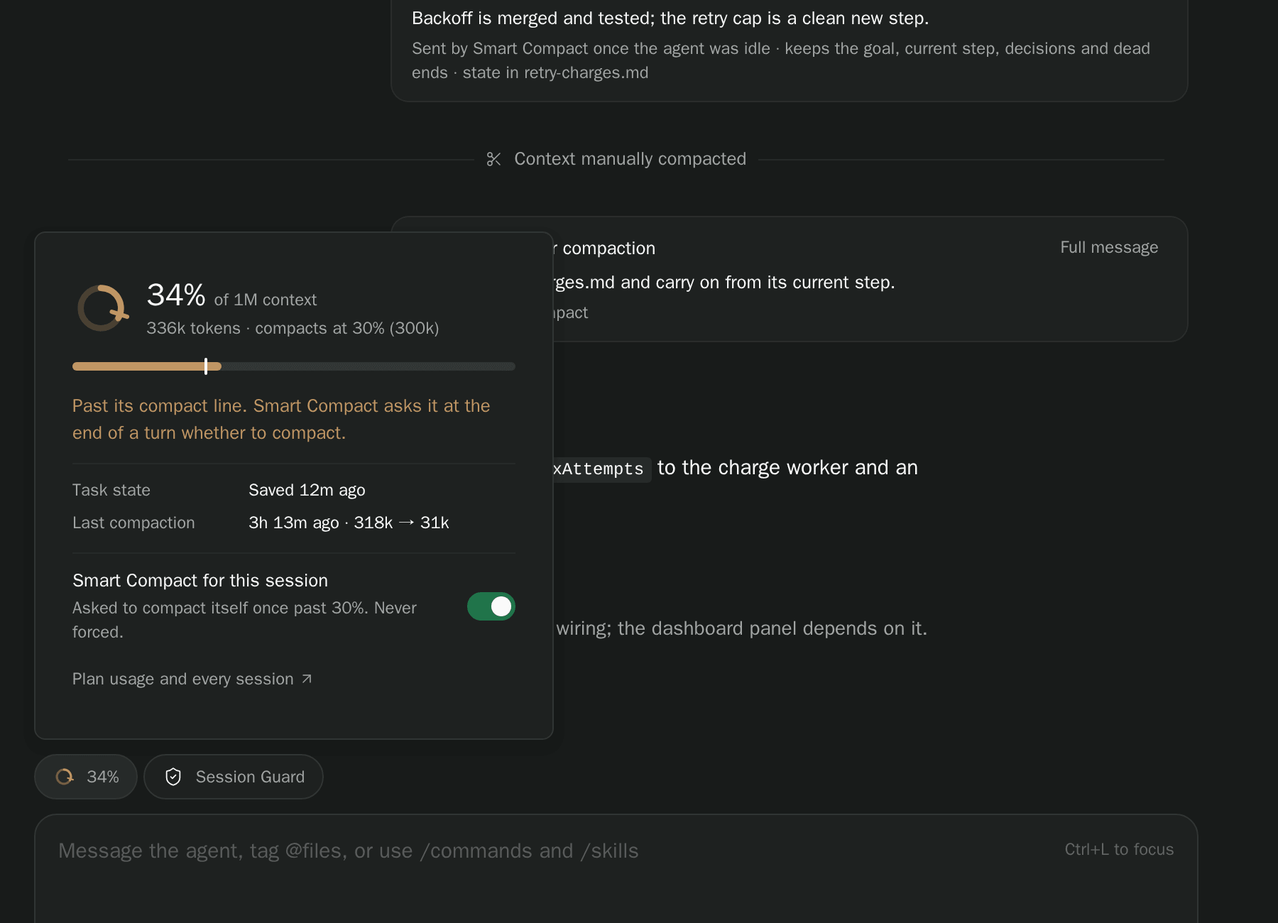
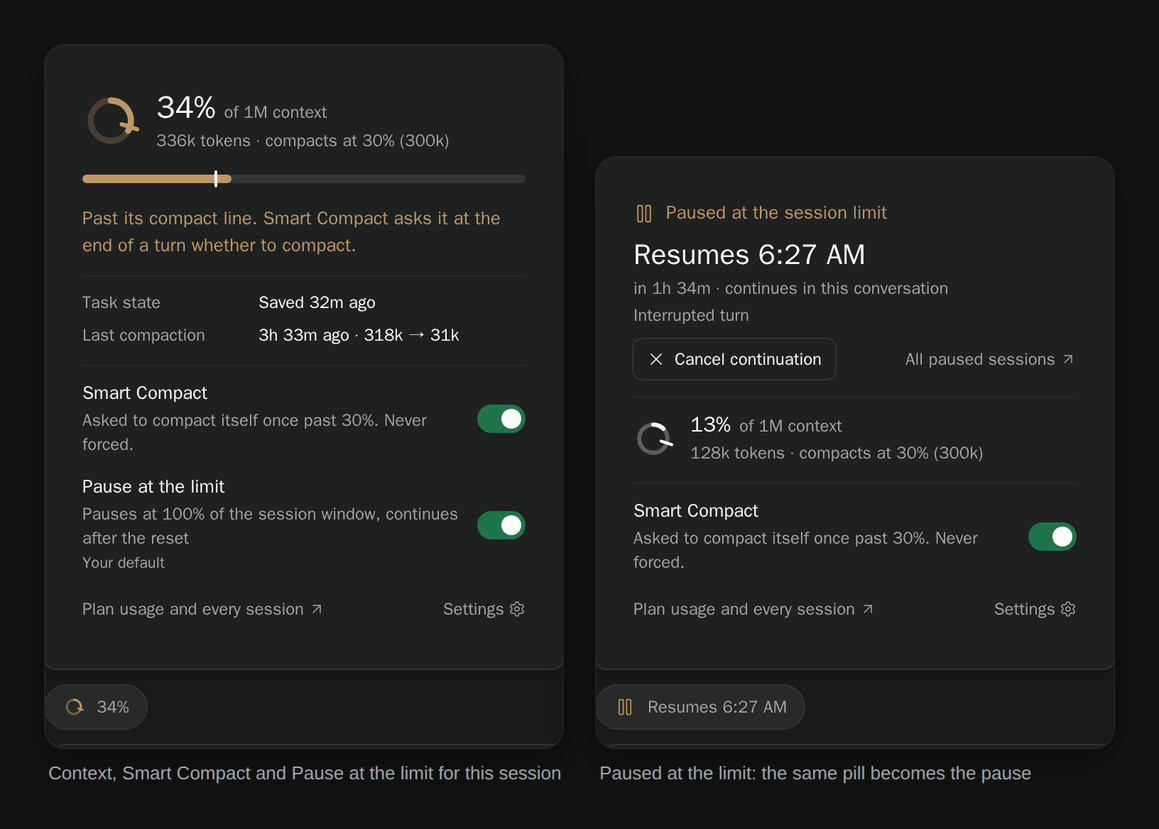
docs: README, guide, media and design notes for one Smart Session
Protection reads as part of the plugin: Pause at the limit in the README
with one settings table, the guide describes the one pill and the overview's
paused list, new media (both pill states, the pause in chat and on the
overview, phone, the settings screen), the old Display screenshots go.

diff --git a/docs/session-guard.md b/docs/session-guard.md
@@ -1,16 +1,16 @@
-# Session Guard
+# Pause at the limit
 
-Session Guard pauses agents at their provider's session limit and continues the same conversations after the window resets, even while the Paseo app is closed. It began as the standalone [paseo-session-guard](https://github.com/tomgrin10/paseo-session-guard) plugin and now ships inside Smart Session. See the [README](../README.md) for installation.
+Pause at the limit (formerly the Session Guard plugin, and still called Session Guard in the code and data paths) pauses agents at their provider's session limit and continues the same conversations after the window resets, even while the Paseo app is closed. It began as the standalone [paseo-session-guard](https://github.com/tomgrin10/paseo-session-guard) plugin and now ships inside Smart Session. See the [README](../README.md) for installation.
 
 ## Turning it on
 
-Session Guard is **off by default**. Turn it on with the **Session Guard** switch on the Smart Session overview, or in **Settings → Plugins → Smart Session → Session Guard**. Off, it holds no lock, writes nothing and draws no pill.
+It is **off by default**. Turn it on with the **Pause at the limit** switch on the Smart Session overview, or in **Settings → Plugins → Smart Session**. Off, it holds no lock, writes nothing and adds nothing to the pill.
 
 ### Moving from the standalone plugin
 
 Smart Session never runs Session Guard while the standalone plugin is configured **and enabled** on the host, even when it could. Released versions of the standalone plugin resume every suspended session in the shared state when they are disabled or removed, whichever plugin paused it, so two enabled copies cannot share a host safely. Both keep their state in `$PASEO_HOME/plugin-data/session-guard/` and take the same `governor.lock` there, so a disabled copy that is still shutting down is waited out too.
 
-- While the standalone plugin is enabled, Smart Session's Session Guard pauses nothing. Its settings, the paused-sessions list and the overview say so, its pill stays hidden, and pauses in the list are marked as the standalone plugin's, with no controls.
+- While the standalone plugin is enabled, Smart Session's Session Guard pauses nothing. Settings, the pill's popover and the overview say so in one line, and pauses in the overview's list are marked read-only, with no controls.
 - **Disable or uninstall Session Guard** (**Settings → Plugins**, `paseo plugin disable paseo-session-guard` or `paseo plugin remove paseo-session-guard`). Smart Session takes over on its next check, about 15 seconds later. Per-session choices and waiting pauses carry over, because they are the same file. The standalone plugin releases native workers when it stops; if the quota is still full, Smart Session normally pauses that work again on its first check.
 - Smart Session's settings start from defaults: the standalone plugin's settings belong to that installation and are deleted with it. Re-apply any custom threshold, timing or continuation message.
 - If the standalone plugin is enabled again while Smart Session is protecting the host, Smart Session releases the sessions it suspended, keeps their confirmed waits, gives up the lock and stops. The standalone plugin does not retry its lock, so reload it to let it take over, or disable it again to hand back to Smart Session. Between enabling it and Smart Session's next check (up to the check interval) both are loaded; avoid disabling it again within that window.
@@ -19,21 +19,17 @@ Turning Session Guard off releases suspended workers immediately. A message cont
 
 ## Use
 
-Every live session with a workspace gets a **Session Guard** composer pill while the feature is on. Open its menu to:
+There is no separate pill. Each session's Smart Session pill (the context ring) carries its protection, and says nothing about it while the session is simply protected. Press it for the **Pause at the limit** switch for that session: it shows whether the session follows your default or was changed, with **Use default** to go back. Turning the switch to match the default removes the override.
 
-- **Turn off for this session** / **Protect this session**: persist an explicit session override.
-- **Use host default**: remove that override.
-- **Cancel automatic continuation**: leave an interrupted turn for you to continue manually. For suspended native workers, **Release and turn off for this session** resumes them immediately and opts the session out, preventing the next check from pausing it again.
-- **Session Guard settings**: configure the host policy and see paused sessions.
-- **All paused sessions**: open the host-wide overview.
+When a session is paused, its pill becomes the pause: an amber pause glyph and the moment it resumes (**Resumes 5:58 PM**, **Paused · reset due**, or **Check session** in red when it needs a look). It stays on the composer while paused even if the pill is hidden in settings. Its popover leads with what happened and when it continues, with **Cancel continuation** (for an interrupted turn) or **Release and turn off** (for frozen native workers, which also opts the session out so the next check doesn't pause it again), and a link to all paused sessions.
 
-The **Paused sessions** screen gathers every Session Guard pause on the selected host, each led by the time its window resets and a countdown, with the session title, provider and whether native subagents are frozen or the turn was interrupted. Uncertain stops are grouped under **Needs attention**. Open a session or manage its pause directly; search appears when the list is busy. Open it from the Smart Session overview (the **2 paused** line under the headline, or the Session Guard card), the pill's menu, Command Center, settings, or a pause card. While anything is paused, the Smart Session sidebar row shows the count. A waiting session's composer pill begins **Paused**. Its workspace also gets an amber **Paused** label in the left sidebar. The label persists through restarts and stays until the last paused session in that workspace is released. Turn it off with **Label paused workspaces** in settings; other workspace labels stay intact.
+The Smart Session overview leads with paused sessions while there are any ("2 sessions resume at 5:58 PM"), and lists them right under the headline, each with the session title, provider, whether native subagents are frozen or the turn was interrupted, **Open session** and the release action. Uncertain stops sort first. Search appears when the list is busy. ⌘K **Smart Session: paused sessions**, a pause card and the settings screen all open the overview at this list. Sessions changed from your default are listed under the **Pause at the limit** row, each with **Use default**. While anything is paused, the Smart Session sidebar row shows the count. Paused workspaces get an amber **Paused** label in the left sidebar until the last paused session in them is released. Turn it off with **Label paused workspaces** in settings; other workspace labels stay intact.
 
-Confirmed pauses write a **Paused for session limit** timeline entry: the reset time with a live countdown, the provider and how much of the window was used, and whether native subagents are covered. When the pause ends, the entry folds into one line ("Paused at 7:57 PM · resumed 9:41 PM"), so the chat keeps the history without a stale card. Resume, release, and uncertain-stop entries make the recovery history clear. Existing confirmed waits are backfilled when upgrading. Timeline events use the host-owned plugin IPC identity, stay outside model messages, and never start a new turn. Delivery is journaled and retried; a lost acknowledgement is checked against timeline IDs before another append. Timeline delivery failures do not undo pauses and are shown in the overview/settings.
+Confirmed pauses write a **Paused at the session limit** timeline entry: the reset time with a live countdown, the provider and how much of the window was used, and whether native subagents are covered. When the pause ends, the entry folds into one line ("Paused at 7:57 PM · resumed 9:41 PM"), so the chat keeps the history without a stale card. Resume, release, and uncertain-stop entries make the recovery history clear. Existing confirmed waits are backfilled when upgrading. Timeline events use the host-owned plugin IPC identity, stay outside model messages, and never start a new turn. Delivery is journaled and retried; a lost acknowledgement is checked against timeline IDs before another append. Timeline delivery failures do not undo pauses and are shown in the overview/settings.
 
 Choose **Dismiss pause** on an active pause or restart-recovery timeline item to release it **without sending a message**. This cancels its scheduled continuation, turns protection off for that session, clears its active pause from the overview and workspace label when applicable, and collapses the original card to a short acknowledgement. Existing suspended workers are released and may continue their current work. The dismissal is saved before release so it survives restarts; partial release retries without sending. Historical cards cannot dismiss a newer pause. **Resume now** remains available when you want Guard to continue interrupted work immediately.
 
-Settings are also available in **Settings → Plugins → Smart Session → Session Guard** and Command Center. The default can be changed from **Protect all sessions** to **Opt in per session**. Explicit overrides survive that change. Native subagents inherit their parent session's protection and opt-out. Paseo-created child sessions have their own protection and pill, like every other session.
+Settings live in the **Pause at the limit** and **Limit timing** sections of **Settings → Plugins → Smart Session** (⌘K **Smart Session: settings**). **Sessions** can be changed from **Every session** to **Only ones I turn on**. Explicit overrides survive that change. Native subagents inherit their parent session's protection and opt-out. Paseo-created child sessions have their own protection and pill, like every other session.
 
 | Setting | Default | Range / meaning |
 |---|---|---|
@@ -57,9 +53,9 @@ Native coverage currently requires **Linux**, access to `/proc`, and a uniquely 
 
 Suspension does not undo an API request or external action already sent. Network calls can time out while paused, and tools can retain locks. Resumption preserves local process state, but a provider's ordinary network/tool error still requires normal recovery; Session Guard automatically recovers only matching quota failures. Outstanding permission prompts remain for the person to answer.
 
-The pill's icon carries its state: a shield when protected, a muted crossed-out shield when off, an amber pause while paused, and a red warning when the session needs a look. A confirmed pause timeline entry offers **Resume now** while that exact pause is still waiting. This resumes owned native workers in place, or sends one manual continuation for an interrupted turn, and opts that session out so a still-full quota cannot immediately pause it again. Restore protection from the pill when ready. Resuming does not restore provider capacity: requests can still be rejected before reset. Historical entries cannot resume a newer pause, and unconfirmed message delivery is left for inspection without a blind retry.
+The pill's icon carries the pause: the context ring normally, an amber pause while paused, and a red warning when the session needs a look. A confirmed pause timeline entry offers **Resume now** while that exact pause is still waiting. This resumes owned native workers in place, or sends one manual continuation for an interrupted turn, and opts that session out so a still-full quota cannot immediately pause it again. Restore protection from the pill when ready. Resuming does not restore provider capacity: requests can still be rejected before reset. Historical entries cannot resume a newer pause, and unconfirmed message delivery is left for inspection without a blind retry.
 
-A disposable, empty session labelled `session_guard_demo=true` can exercise the real native pause/release path through the `smart-session.guard.demo-pause` RPC (`node probe.mjs rpc smart-session.guard.demo-pause '{"agentId":"…"}'`). It must have no user messages, active turn, or pending permissions. Its timeline explicitly says **Session Guard demo paused**, makes no quota claim, and waits for your action even when capacity resets. The demo never sends a task or changes provider quota reports.
+A disposable, empty session labelled `session_guard_demo=true` can exercise the real native pause/release path through the `smart-session.guard.demo-pause` RPC (`node probe.mjs rpc smart-session.guard.demo-pause '{"agentId":"…"}'`). It must have no user messages, active turn, or pending permissions. Its timeline explicitly says **Test pause**, makes no quota claim, and waits for your action even when capacity resets. The demo never sends a task or changes provider quota reports.
 
 ## Timing and persistence
 

diff --git a/README.md b/README.md
@@ -5,7 +5,7 @@
 [![Paseo](https://img.shields.io/badge/Paseo-%E2%89%A5%200.14.0-8A63D2?style=for-the-badge)](https://paseo.sh)
 [![License](https://img.shields.io/github/license/tomgrin10/paseo-smart-session?style=for-the-badge&color=2563eb)](LICENSE)
 
-Know when your plan runs out, and let agents manage their own long-running work. Smart Session records your Claude plan usage and turns it into a forecast ("Session runs out around 5:40 PM"), shows how full each session's context is, lets an agent save its task state and compact itself at a safe point, and with Session Guard pauses work at the session limit and continues it after the reset.
+Know when your plan runs out, and let agents manage their own long-running work. Smart Session records your Claude plan usage and turns it into a forecast ("Session runs out around 5:40 PM"), shows how full each session's context is, lets an agent save its task state and compact itself at a safe point, and pauses work at the session limit to continue it after the reset.
 
 <picture>
   <source media="(prefers-color-scheme: light)" srcset="docs/media/smart-session-hero-light.png">
@@ -24,18 +24,18 @@ On first load it registers its Claude Code hooks, touching only entries that poi
 
 ## Use
 
-**Smart Session** in the sidebar opens the overview. Its headline says when the session window runs out at the current pace, or that it lasts until the reset.
+**Smart Session** in the sidebar opens the overview. Its headline says when the session window runs out at the current pace, or that it lasts until the reset. While sessions are paused at the limit it leads with them instead ("2 sessions resume at 5:58 PM"), and lists them first with their actions.
 
 - **Plan limits.** Each window (the 5-hour session, the week, per-model weekly caps) shows how much is used, when it resets, and where it lands at the current pace: a faint extension of the meter, and a tick where an even pace would be. The session window adds a chart of its recorded usage and the projection to the reset, plus every session window of the last 14 days, so you can see how often you hit the limit.
 - **Session context.** Every open session with its share of the context window, the line where Smart Compact asks it to compact, how fast it is filling, and whether it is enrolled. Press a row to open the session.
-- **Smart Compact and Session Guard.** One switch each, what they will do, and links to their settings.
+- **Smart Compact and Pause at the limit.** One switch each, what they will do next, and the sessions you changed from your default.
 - **Tokens, last 30 days.** Billable tokens, the cache hit rate and the subagent share, per day, by hour of the week, by workspace and by model, reconstructed from Claude Code's transcripts.
 
-The pill above each message box is a ring of that session's context, with a tick at its compact line. Press it to see the detail, when it last saved its task state and compacted, and to enrol the session or take it out.
+Each session has one pill above its message box: a ring of its context, with a tick at its compact line. Press it to see the detail, when it last saved its task state and compacted, and to switch Smart Compact and Pause at the limit for that session. When the session is paused at the limit the same pill turns amber and says when it resumes, and it stays up even if you hide the pill.
 
 ![Pressing the context ring above the message box, then following it to the Smart Session screen and sweeping the window chart: recorded usage up to now, the projection at this pace, and the stretch after it runs out](docs/media/smart-session-flow.gif)
 
-![A session's context popover: 34% of a 1M context, 336k tokens, compacts at 30%, past its compact line; task state saved 10m ago; last compaction 3h ago, 318k to 31k; the Smart Compact switch for this session](docs/media/smart-session-pill.png)
+![Two popovers of the one pill. Left: 34% of a 1M context, past its compact line, task state and last compaction, then the Smart Compact and Pause at the limit switches for this session. Right: the same pill while paused, reading Resumes 6:27 AM, with Cancel continuation and a link to all paused sessions](docs/media/smart-session-pill.png)
 
 Agents get these tools:
 
@@ -45,7 +45,7 @@ Agents get these tools:
 | `checkpoint` | Save durable task state for this session |
 | `request_compaction` | Queue `/compact`, and choose whether and how to continue afterwards |
 | `defer_compaction` | Put off a compaction and record why |
-| `budget_status` | Plan usage, burn rate and reset times, and whether Session Guard will pause this session |
+| `budget_status` | Plan usage, burn rate and reset times, and whether this session pauses at the limit |
 
 The usual flow is `context_status → checkpoint → request_compaction`, then stop or re-read the state and continue. Saved state holds the goal, current step, decisions made and approaches that failed, so a resumed agent neither redoes work nor asks how to continue. In the chat each call is one line ("Saved task state · Cap retries at five", "Asked to compact · …"), and the messages Smart Session sends show as small cards with the full text one press away.
 
@@ -59,32 +59,43 @@ After compaction, the agent chooses to stop (`continue_after_compaction: false`)
 
 The forecast uses the last half hour for the session window and the window's own average for a week, so a burst of work doesn't read as "the week runs out tonight".
 
-**Settings → Plugins → Smart Session → Smart Compact:**
+## Pause at the limit
 
-| Setting | Default | |
-| --- | --- | --- |
-| Smart Compact | On | Context notices and agent-requested compaction |
-| Enrol sessions automatically | On | Enrol a session once it writes task state |
-| Context pill on every session | On | The ring above each message box |
-| Windows of 400k or more | 30% | Where large windows are asked to compact |
-| Smaller windows | 85% | Where smaller windows are asked to compact |
-| Register the hooks | On | Keep the context and compaction hooks installed in Claude Code |
+When the provider's session window is spent, Smart Session pauses running sessions instead of letting them fail, and continues the same conversations once the window resets, even with the app closed. It is **off by default**: turn it on from the overview or in settings. It was the standalone [Session Guard](https://github.com/tomgrin10/paseo-session-guard) plugin, and its per-session choices and waiting pauses carry over.
 
-## Session Guard
+On Linux, Claude and Codex sessions pause in place together with their native subagents; elsewhere the turn is interrupted and one continuation is sent after the reset. A paused session's pill, its chat and its workspace say so: the chat gets a card with the time it resumes, **Resume now** and **Dismiss pause**, which folds into one line once the pause ends. For Claude, a reset is confirmed from whichever is fresher, Paseo's cached usage or Smart Session's own recorder.
 
-Session Guard pauses agents at the provider's session limit and continues the same conversations after the reset, even with the app closed. It is the [Session Guard](https://github.com/tomgrin10/paseo-session-guard) plugin folded into Smart Session, and it is **off by default**: turn it on from the overview or **Settings → Plugins → Smart Session → Session Guard**.
+![A pause card in the chat with the time it resumes, Resume now and Dismiss pause, and the Smart Session screen leading with 2 sessions resume at 6:27 AM above the list of paused sessions](docs/media/smart-session-guard.png)
 
-On Linux, Claude and Codex sessions pause in place together with their native subagents; elsewhere the turn is interrupted and one continuation is sent after the reset. Each paused session gets a card in its chat with the reset time and a countdown, **Resume now** and **Dismiss pause**; once the pause ends the card folds into one line. **Paused sessions** lists every pause by its reset time, and the session's pill and its workspace read **Paused**. For Claude, a reset is confirmed from whichever is fresher, Paseo's cached usage or Smart Session's own recorder.
+If the standalone Session Guard plugin is still enabled, it keeps doing the pausing and Smart Session says so in one line, so a session is never paused twice. Disable or uninstall it to hand over. See the [guide](docs/session-guard.md) for timing and limits.
 
-![Session Guard: a pause card in the chat with the reset time, Resume now and Dismiss pause, and the Paused sessions screen listing sessions waiting for the reset](docs/media/smart-session-guard.png)
+On a phone, the pill opens as a sheet and every screen fits one column.
 
-While the standalone plugin is enabled, Smart Session leaves session protection to it, so a session is never paused twice. Disable or uninstall Session Guard to hand over; per-session choices and waiting pauses in `$PASEO_HOME/plugin-data/session-guard/` carry over. See the [Session Guard guide](docs/session-guard.md) for settings and limits.
+![Smart Session at phone width: the overview leading with paused sessions, the pill's sheet while paused, and the settings screen](docs/media/smart-session-mobile.png)
 
-On a phone, the pill popovers open as sheets and every screen fits one column.
+## Settings
 
-![Smart Session at phone width: the overview, the context popover as a sheet, and Paused sessions](docs/media/smart-session-mobile.png)
+Everything is on one screen, **Settings → Plugins → Smart Session**, in the order a session meets it. ⌘K **Smart Session: settings** opens it.
 
-**Settings → Plugins → Smart Session → Display** hides the sidebar row or the composer pills; neither turns a feature off.
+| Section | Setting | Default | |
+| --- | --- | --- | --- |
+| Smart Compact | Smart Compact | On | Context notices and agent-requested compaction |
+| | Enrol sessions automatically | On | Enrol a session once it writes task state |
+| When to ask | Windows of 400k or more | 30% | Where large windows are asked to compact |
+| | Smaller windows | 85% | Where smaller windows are asked to compact |
+| Pause at the limit | Pause at the limit | Off | Pause sessions at the session limit |
+| | Sessions | Every session | Or only the ones you turn on from their pill |
+| | Continue after the reset | On | Off, you continue each one by hand |
+| | Include native subagents | On | Freeze nested workers too (Linux) |
+| | Label paused workspaces | On | An amber Paused label in the sidebar |
+| Display | Sidebar row | On | |
+| | Pill on every session | On | A paused session keeps its pill either way |
+| Claude Code | Register the hooks | On | Keep the context and compaction hooks installed |
+| Limit timing | Pause at, check interval, wait after reset, spacing, continuation message, providers, windows | 100%, 15s, 30s, 5s | Behind **Edit**; each field is checked on its own |
+
+Hiding the row or the pill never turns a feature off.
+
+![The Smart Session settings screen: Smart Compact, When to ask, Pause at the limit, Display, Claude Code and Limit timing](docs/media/smart-session-settings.png)
 
 ## Data and access
 

diff --git a/DESIGN.md b/DESIGN.md
@@ -1,6 +1,6 @@
 ---
 name: Smart Session (Paseo native surface)
-description: Plan usage, session context and Session Guard pauses read as moments, drawn in Paseo's own theme.
+description: Plan usage, session context and pauses at the limit read as moments, drawn in Paseo's own theme.
 typography:
   headline:
     fontSize: "22px"
@@ -150,7 +150,7 @@ The palette is the host's. Smart Session owns no hex values, so the frontmatter 
 - **Pressed** (`surface2`): pressed fill, the switch's off track, skeletons.
 - **Hairline** (`border`): row dividers, chart top and baseline. At 60% it draws the chart midline, at 50% day ticks, at 55–80% empty cells and zero bars.
 - **Ink** (`foreground`): text, figures, the "now" rule, the compact tick on a meter. At 82% it is the used fill and the current bar, at 42% past bars, at 16% the projection, at 13% projected bars, and at 10% the meter track.
-- **Muted Ink** (`foregroundMuted`): meta, axes, the even-pace tick, the Session Guard threshold dash, idle icons, a not-enrolled ring.
+- **Muted Ink** (`foregroundMuted`): meta, axes, the even-pace tick, the pause-at-the-limit threshold dash, idle icons, a not-enrolled ring.
 
 ### Status
 - **Amber** (`statusWarning`): a forecast says a limit will bite before the reset, a session is past its compact line, or a session is paused and waiting. On the chart it fills the "nothing left" bars at 42%.
@@ -172,7 +172,7 @@ The palette is the host's. Smart Session owns no hex values, so the frontmatter 
 **Character:** Paseo's own voice at Paseo's sizes. Weight carries the hierarchy, and there is no display face.
 
 ### Hierarchy
-- **Headline** (600, 22/29; 19/25 compact): the status title on the overview and Paused sessions screens ("Session runs out around 4:58 PM"). It is followed by a 13/19 muted meta sentence.
+- **Headline** (600, 22/29; 19/25 compact): the status title on the overview ("Session runs out around 4:58 PM", or "2 sessions resume at 6:27 AM" while anything is paused here). It is followed by a 13/19 muted meta sentence.
 - **Lead figure** (600, 22/28): the context percentage in the popover. **Moment** (600, 20/26; 18/24 compact, tabular) is the resume clock on a pause card. **Row figure** (600, 17/22) is a plan window's percentage. Context rows use 15/20 tabular.
 - **Title** (600, 15/21): a paused-session row's name, and a pause row's own time.
 - **Body** (13/19): sentences and card text. **Label** (600, 13/18): row names and chat-card titles.
@@ -185,7 +185,7 @@ The palette is the host's. Smart Session owns no hex values, so the frontmatter 
 
 ## Layout
 
-The overview and Paused sessions are host screens. Content is centred at 860px (overview) or 760px (Paused sessions), with 32px padding (16px compact) and 48px at the bottom. Blocks are 26px apart (20px compact) on the overview and 22px (18px compact) on Paused sessions. A section is a group head 8px above one card. The first viewport is the headline with its icon and gear, then Plan limits (session row with meter, chart and earlier windows, then week rows and the meter key), then Session context rows, then the Smart Compact and Session Guard feature rows. Tokens (last 30 days) follows.
+The overview is a host screen, centred at 860px, with 32px padding (16px compact) and 48px at the bottom. Blocks are 26px apart (20px compact). A section is a group head 8px above one card. The first viewport is the headline with its icon and gear; while anything is paused, the Paused sessions section comes next (and ⌘K "paused sessions" opens the overview there), then Plan limits (session row with meter, chart and earlier windows, then week rows and the meter key), then Session context rows, then the Smart Compact and Pause at the limit feature rows (sessions changed from the default listed under the latter). Tokens (last 30 days) follows. Settings are one host settings screen in the order a session meets them: Smart Compact, When to ask, Pause at the limit, Display, Claude Code, Limit timing (folded behind Edit).
 
 Rows pad 12×14 with 6px internal gaps. Under a row's icon or status mark, secondary lines indent 22–25px to the text edge. In compact layouts, feature-row links drop to their own indented line, ranked totals stack, the window chart drops to 40 columns (from 60) and 60px tall (from 76), and controls grow to 44px. The popover is 340px (full-width sheet on phones), with 14px padding (16px compact) and 12px gaps, and hairlines between its parts. Chat cards sit right-aligned up to 560px wide, full width when compact.
 
@@ -229,19 +229,19 @@ Corners are soft and few. Cards are 10px, chat and pause cards 12px. Controls ar
 
 ### Navigation
 - **Sidebar row:** Paseo's sidebar header item, named Smart Session. It trails the session window's use in 12px tabular muted text, or a toned chip when a forecast or pause applies.
-- **Text link:** 12px muted text with a 12px ArrowUpRight. Hover turns the text `foreground` and underlines it. Used for "Settings", "Paused sessions" and "All paused", which point to places.
+- **Text link:** 12px muted text with a 12px ArrowUpRight. Hover turns the text `foreground` and underlines it. Used for "Settings", "Paused sessions", "All paused sessions" and "Use default".
 
 ### Meter
 An 8px track (6px for context) in ink at 10%. The fill is ink at 82%, amber or red by tone. A faint projection continues to where the reset lands (ink at 16%, or the tone at 24%). A muted 2px tick marks even pace, and a `foreground` tick marks the compact line. It carries a progressbar role and a spoken label. One key under the plan card names Used, By the reset at this pace and Even pace.
 
 ### Window chart (signature)
-The open session window from start to reset, in 60 columns (40 compact). It has a hairline top at 100%, a 60% midline, a dashed muted line at Session Guard's threshold when below 100%, and a 1px `foreground` "now" rule. Past bars are ink at 42% and the current bar ink at 82% (red when the forecast is danger). Projected bars are ink at 13%. Bars past the run-out moment are amber at 42%, at full height. Hover on web replaces the caption with a readout ("4:12 PM · ~68% at this pace"). The whole chart is one accessible summary sentence.
+The open session window from start to reset, in 60 columns (40 compact). It has a hairline top at 100%, a 60% midline, a dashed muted line at the pause threshold when below 100%, and a 1px `foreground` "now" rule. Past bars are ink at 42% and the current bar ink at 82% (red when the forecast is danger). Projected bars are ink at 13%. Bars past the run-out moment are amber at 42%, at full height. Hover on web replaces the caption with a readout ("4:12 PM · ~68% at this pace"). The whole chart is one accessible summary sentence.
 
 ### Context ring and pill (signature)
-The composer pill keeps the host's chrome. Its icon is the ring, and its label is the percentage ("34%"). The ring is `foreground` when the session is enrolled and muted when it is not, takes its tone colour when past the line, and shows the tick only when the session is enrolled. Pressing it opens the popover: a 40px ring with a 22px figure, a meta line of tokens and compact line, a 6px meter with the compact tick, one sentence in tone, a fact table (112px label column), and the per-session switch. A text link ends it. Session Guard's pill uses the host Icon: ShieldCheck in `foreground`, ShieldOff muted, Pause amber, TriangleAlert red.
+The composer pill keeps the host's chrome. Its icon is the ring, and its label is the percentage ("34%"). The ring is `foreground` when the session is enrolled and muted when it is not, takes its tone colour when past the line, and shows the tick only when the session is enrolled. Pressing it opens the popover: a 40px ring with a 22px figure, a meta line of tokens and compact line, a 6px meter with the compact tick, one sentence in tone, a fact table (112px label column), and the per-session switch. A text link ends it. There is one pill per session. Protection adds nothing to it while a session is simply protected; an excluded session says so only in the pill's title. While a session is paused at the limit (and this process governs the pause) the icon becomes the host Pause glyph in amber (TriangleAlert in red when it needs a look), the label becomes the moment it resumes ("Resumes 6:27 AM": a clock, so the label rarely changes), and the pill stays up even when hidden in settings. The popover then leads with the pause: amber Pause icon and label, the moment at 20/26 semibold tabular, a meta line with the countdown and coverage, a bordered small release button and an "All paused sessions" link, then the context shrunk to a 28px ring and 15px figure. Below Smart Compact's switch sits the **Pause at the limit** switch with a meta line and a small "Your default" / "Changed for this session" note plus a RotateCcw "Use default" link. When protection does not run here it is one muted ShieldOff line.
 
 ### Pause card
-In chat it is `surface1`, 12px corners and `raised` depth. It leads with an amber Pause icon, the resume moment at 20/26 semibold tabular and a 13px muted countdown, then one meta line of facts. Then come a small secondary **Resume now** (Play), a ghost **Dismiss pause**, a right-aligned "All paused" link and a small hint. When it settles it folds to one quiet 13px line with a 13px icon ("Paused at 3:28 PM · resumed 5:16 PM"). When stuck it swaps to the red border with "Pause needs attention".
+In chat it uses the same shell as Smart Session's message cards: `surface1`, 12px corners, `raised`, a title row (14px amber Pause icon, 13px semibold "Paused at the session limit", the time it paused in meta at the right), then the resume moment at 18/24 semibold tabular with a 13px muted countdown, then one meta line of facts. Then come a small secondary **Resume now** (Play), a ghost **Dismiss pause**, a right-aligned "Paused sessions" link and a small hint. When it settles it folds to one quiet line sized like the tool rows (14px text, 12px icon in a 22px slot) ("Paused at 3:28 PM · resumed 5:16 PM"). When stuck it swaps to the red border with "Pause needs attention".
 
 ### Chat rows and cards
 Smart Session's tool calls are one 14px muted line with a 12px icon. Hover and expand swap the icon for a rotating chevron. Expanding opens a bordered `surface1` box up to 240px tall. A refused call is amber and a failed one red, with TriangleAlert. Messages the plugin sent become `raised` `surface1` cards (12px corners, 11/14px padding): a 14px icon, a 13px semibold title, a "Full message" toggle, the body, and a 12/17 muted provenance line. The full text expands in mono, up to 300px.

diff --git a/AGENTS.md b/AGENTS.md
@@ -88,7 +88,9 @@
   `agents.list({ subscribe: {}, signal })` observation; bare `agents.subscribe()` only listens
   locally and does not discover new agents (`RESEARCH.md` §5.1). Do not open a second one for a new
   pill: `check-bundles.mjs` asserts the observation is released exactly once.
-- `client/pill.tsx` owns the Smart Compact pill and `client/pill-store.ts` its state. Pill state lives in
+- `client/pill.tsx` owns Smart Session's one composer pill, `client/pill-view.ts` what it says (plain
+  functions, tested in `pill.test.ts`), `client/pill-store.ts` its Smart Compact state and
+  `client/guard/status.ts` its protection state (one `smart-session.guard.status` poll per bundle). Pill state lives in
   a module-level store because the pill, its popover, the Command Center item and the screens are
   all in the one client bundle; that is what makes a toggle redraw immediately instead of waiting out
   a poll. A registration bakes in the workspace and cannot be patched, so an agent that moves
@@ -96,14 +98,22 @@
   arc is the session's context, the tick its compact line, muted when the session is not enrolled)
   with the percentage as its label; context comes from the shared agent directory's `lastUsage`, so
   it moves every turn without a poll of its own. Pressing it opens `client/popover.tsx`: context,
-  compact line, task state, last compaction and the enrolment switch. Only update `label`/`title`
-  on change; a new `behavior` remounts an open popover.
-- Views are screens, not surfaces: `addScreen("overview")` titled **Smart Session** and
-  `addScreen("paused-sessions")` titled **Paused sessions**, opened with `openScreen`, plus the
-  `addSidebarHeaderItem` row (trailing the session window's use, or the paused count from the Session
-  Guard pills' poll through `client/live.ts`). Settings live in Settings → Plugins (`smart-compact`,
-  `session-guard`, `display`) and open with `openSettings`. `check-bundles.mjs` refuses `addSurface`,
-  whose header shows the raw id.
+  compact line, task state, last compaction, the enrolment switch and the per-session **Pause at the
+  limit** switch. While this process governs a pending pause for the session, the pill becomes the
+  pause (amber glyph, "Resumes 5:58 PM") and its popover leads with it; that pill is registered even
+  when the pill is hidden, so it goes on the host's own client, not through `button-visibility`.
+  Only update `label`/`title` on change; a new `behavior` remounts an open popover. The label is a
+  clock, not a countdown, for the same reason. There is no second pill: `check-bundles.mjs` refuses one.
+- Views are screens, not surfaces: `addScreen("overview")` titled **Smart Session**, which holds the
+  paused sessions (`params.focus = "paused"` opens it at that list), plus `paused-sessions`, kept as
+  the overview opened at that list so old links still land, and the `addSidebarHeaderItem` row
+  (trailing the session window's use, or the paused count from the status poll through
+  `client/live.ts`). Settings are one screen, id `smart-compact` (the old first page's id, so links
+  to it still land), titled **Settings**; ids live in `client/screens.ts`. `check-bundles.mjs` refuses
+  `addSurface`, whose header shows the raw id, and a second settings screen.
+- In the UI the feature is **Pause at the limit**, part of Smart Session; "Session Guard" names only
+  the standalone plugin (and the code and data paths). Command Center items all start with
+  "Smart Session" (`client/commands.ts`) and keep the old keywords.
 - `shared/forecast.ts` turns a window reading into its moment: when it resets, when it runs out at
   this pace (the last half hour for the session, the window's own average for a week), and the
   per-hour pace that would last. Every view and `forecast.test.ts` read the same rules. Charts in
@@ -135,8 +145,8 @@
 - Deliver only at a turn boundary, only when task state on disk is current, and never retry an
   interrupted `/compact` — it is destructive and not idempotent.
 - `settings.enabled` is the master switch; `showPill` and `autoEnrol` qualify it and mean nothing
-  while it is off. There is no third pill state — a session is enrolled or it is not, and with the
-  feature off the pill is not drawn at all.
+  while it is off. There is no third pill state — a session is enrolled or it is not. With Smart
+  Compact off the pill is drawn only while Pause at the limit runs here (muted ring, no tick).
 - Do not log secrets, tokens, task-state contents, or message bodies. Credentials are read-only.
 
 ## Session Guard
@@ -185,8 +195,8 @@
   notice, so a guard interrupt or SIGSTOP that comes first starves it. ZeroSub's files are read-only
   and parsed defensively. Never copy an email or a generated (`autoLabel`) label out of them, and
   never open an account home.
-- Its pill is drawn only while this process is the active governor, and while turning off only for a
-  session that still has a pending pause.
+- The pill shows protection only while this process is the active governor; a pending pause keeps
+  a session's pill up (even with the pill hidden) only while this process governs it.
 - Agents see it only through `budget_status` in `mcp.mjs`, which asks
   `smart-session.guard.agent` about the calling `PASEO_AGENT_ID`. It is read-only: no agent-facing
   path may opt a session out or resume a pause.

diff --git a/PRODUCT.md b/PRODUCT.md
@@ -22,7 +22,7 @@ context and budget, checkpoint, and ask to be compacted.
 
 Three parts in one plugin. A recorder keeps the only history of plan-usage percentages that exists
 (the provider and Paseo keep none). Smart Compact lets an agent compact itself at a safe stopping
-point, never forced, with its task state on disk first. Session Guard pauses sessions at the
+point, never forced, with its task state on disk first. Pause at the limit (formerly the Session Guard plugin) pauses sessions at the
 provider's session limit and continues the same conversations after the reset. Success is a developer
 who never loses work to a full context or a spent window, and never has to babysit either.
 
@@ -35,10 +35,10 @@ place. *(inferred)* Neighbours show a usage snapshot (usage-monitor, zerosub) or
 
 ## Operating Context
 
-- Entry points: the Smart Session sidebar screen (plan limits, agent context, spend history,
-  feature switches), the Smart Compact composer pill on every session, the Session Guard composer
-  pill while it governs, timeline cards for pauses, Command Center items, and Settings → Plugins →
-  Smart Session (Smart Compact, Session Guard, Display).
+- Entry points: the Smart Session sidebar screen (plan limits, paused sessions, agent context,
+  spend history, feature switches), one Smart Session composer pill per session (the context ring;
+  it becomes the pause while a session waits for the reset), timeline cards for pauses, Command
+  Center items, and one settings screen, Settings → Plugins → Smart Session.
 - Agents reach it through MCP tools (`context_status`, `checkpoint`, `request_compaction`,
   `defer_compaction`, `budget_status`) and Claude Code hooks; those calls show in the chat.
 - Used on desktop, web and phones; composer pill popovers become bottom sheets on phones.
@@ -49,7 +49,7 @@ place. *(inferred)* Neighbours show a usage snapshot (usage-monitor, zerosub) or
   cache as fallback); append-only monthly JSONL under `$PASEO_HOME/plugin-data/smart-session/`.
 - Compaction is always agent-mandated; the plugin never decides to compact. It sends at most the
   requested `/compact` and one optional continuation.
-- Session Guard is off by default; its state format, lock and hand-off with the standalone plugin
+- Pause at the limit is off by default; its state format, lock and hand-off with the standalone plugin
   are frozen. It freezes provider processes with SIGSTOP on Linux.
 - Paseo ≥ 0.14, no runtime dependencies, host theme tokens only, no react-native-svg (inline SVG
   only through the host `Icon`).

diff --git a/docs/navigation-verification.md b/docs/navigation-verification.md
@@ -3,9 +3,9 @@
 Verified in an isolated Paseo 0.15 daemon with synthetic workspaces, usage history and sessions, using the app's web runtime at 1440×900 and 390×844, light and dark.
 
 - The sidebar row **Smart Session** opens the overview screen; its header reads **Smart Session**, not a raw id. The row trails the session window's use, or how many sessions are paused.
-- **Paused sessions** is its own screen with its own title, opened from the overview, the Session Guard pill's menu, a pause card or Command Center.
-- Smart Compact, Session Guard and Display settings live in **Settings → Plugins → Smart Session** and open from the overview's gear, the feature cards and Command Center.
-- **Display** hides the sidebar row or the composer pills; hiding either never turns a feature off, and Command Center still opens the overview.
+- Paused sessions are a section of the overview, right under its headline. ⌘K **Smart Session: paused sessions**, a pause card, the pill's popover and settings open the overview at that list; the old `paused-sessions` screen id still resolves to it.
+- One settings screen, **Settings → Plugins → Smart Session → Settings** (id `smart-compact`, which the old first page used), opens from the overview's gear, the feature rows, the pill's popover and Command Center.
+- **Display** in that screen hides the sidebar row or the pill; hiding either never turns a feature off, a paused session keeps its pill, and Command Center still opens the overview.
 - Compact settings have no horizontal overflow and keep accessible native switches.
 
-Screenshots: [desktop](screenshots/display-settings-desktop.png), [compact](screenshots/display-settings-mobile.png). Screenshots contain synthetic data. No main daemon restart or real-agent messages were used.
+Screenshots: [settings](media/smart-session-settings.png), [phone](media/smart-session-mobile.png). Screenshots contain synthetic data. No main daemon restart or real-agent messages were used.
